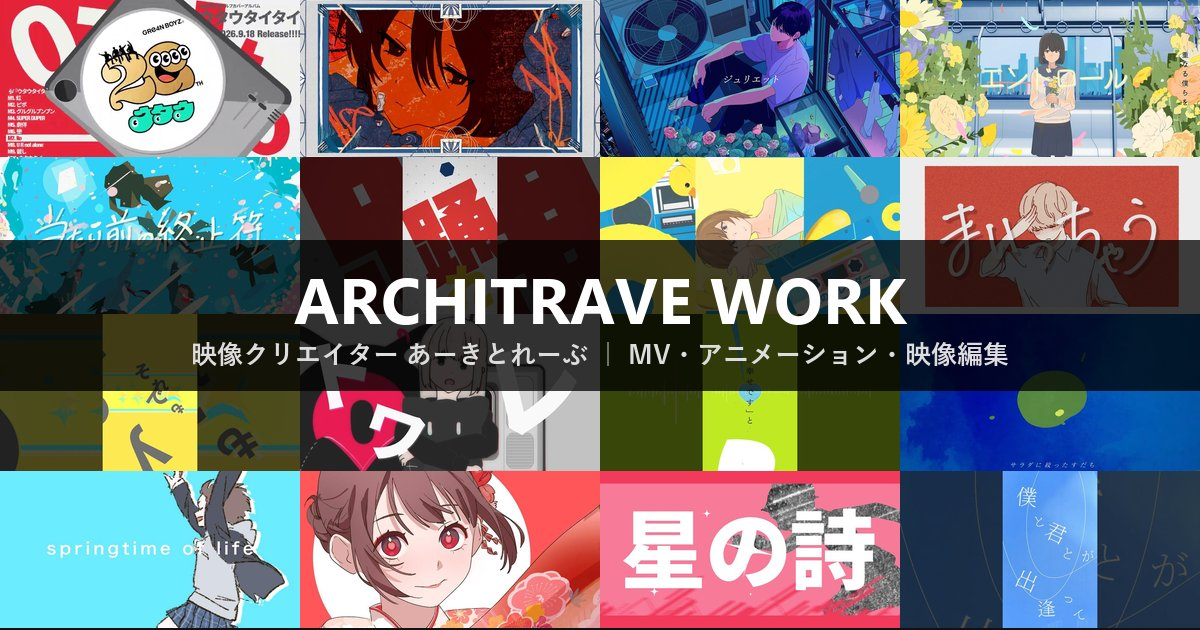
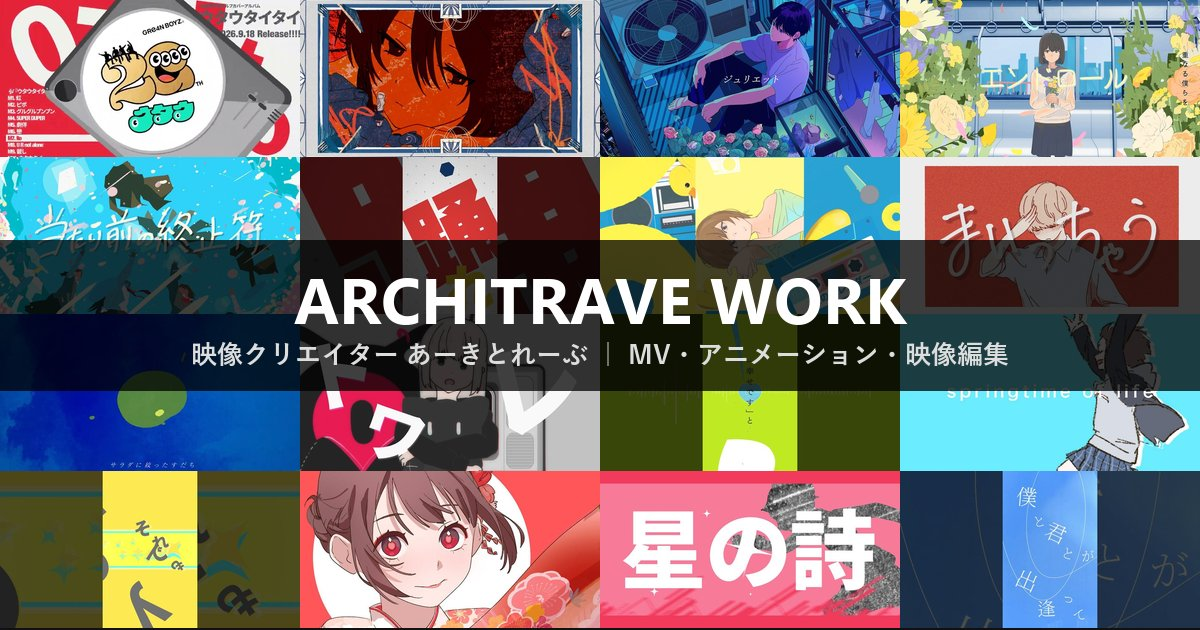
Reorder: すだち back to 9th, U R not alone after FMV３クスッギフト

Changed region(s): [[0.0, 0.4825, 0.2775, 1.0], [0.74, 0.4825, 1.0, 0.754]]

diff --git a/work/Rowmkcclsm0/index.html b/work/Rowmkcclsm0/index.html
@@ -110,7 +110,7 @@
     <h2>概要</h2>
     <p>Streaming &amp; Download：<a href="https://orcd.co/toilette" target="_blank" rel="noopener nofollow">https://orcd.co/toilette</a><br>Uchu Pilot / Toilette<br><br>Produce：宇宙パイロット<br>Vocal：Yoru<br>Music &amp; Lyric：Chinozo<br><br>Illust &amp; Movie：あーきとれーぶ<br>X：<a href="https://x.com/architrave123" target="_blank" rel="noopener nofollow">https://x.com/architrave123</a><br><br>Vocal MIx：さんかくずわり<br>X：<a href="https://x.com/Sankaku_Mix" target="_blank" rel="noopener nofollow">https://x.com/Sankaku_Mix</a><br><br>Inst<br><a href="https://drive.google.com/drive/folder..." target="_blank" rel="noopener nofollow">https://drive.google.com/drive/folder...</a><br><br>=====<br>旅人は言った<br>ここは奇妙（おかし）な星ね<br>檻の中で健気に唄っている<br>刹那の住人　Oh<br><br>小僧の毒もらって鑑賞をす<br>その感想と文化を縫って感動をす<br>結果幼装なDancerは喝采をす<br>あの日の後遺症？<br><br>麻痺って　麻痺ってく<br>痛みどこか飛んでゆく<br>回って　回ってく<br>クラクラ苦楽香るキミへOh<br>腐食してくこの身飾って<br>トワレ！<br><br>旅人は言った<br>ここは奇妙（おかし）な星ね<br>煙たい記憶はどこかしまっている<br>不思議な住人<br><br>小僧の毒もらって鑑賞をす<br>その感想を文化に塗って恋をする<br>えっと、もう帰れないやって万感の部<br>あの日の後遺症<br><br>探ってる　真夜中の天使たちを<br>探ってる　とびきりの辺鄙な希望<br><br>麻痺って　麻痺ってく<br>痛みどこか飛んでゆく<br>詰って（なじって）　踊っている<br>夢にまだ夢見ているんだ<br>魔法で　魔法で<br>ふっと世界を壊したとして<br>麻痺って　麻痺って<br>炎はただ燃えてくだせえ<br><br>腐食してく　今宵くらいね<br>嫌なことは忘れてトワレ！<br><br>旅人は言った<br>ここは奇妙（おかし）な星ね　ふっ<br>=====<br>▼宇宙パイロット<br>YouTube：   / @uchupilot<br>X：<a href="https://x.com/uchupilot" target="_blank" rel="noopener nofollow">https://x.com/uchupilot</a><br>TikTok：  / uchupilot<br>Instagram：  / uchupilot<br><br>▼Chinozo<br>YouTube：   / @chinozo_<br>ニコニコ動画：<a href="https://www.nicovideo.jp/mylist/63011659" target="_blank" rel="noopener nofollow">https://www.nicovideo.jp/mylist/63011659</a><br>X：  / chinozo_<br>TikTok：  / chinozo_<br>Instagram：  / chinozoo0<br>Spotify：<a href="https://open.spotify.com/intl-ja/arti..." target="_blank" rel="noopener nofollow">https://open.spotify.com/intl-ja/arti...</a><br><br>▼Yoru<br>YouTube：   / @younagiyoru<br>X：<a href="https://x.com/yoru_younagi" target="_blank" rel="noopener nofollow">https://x.com/yoru_younagi</a><br>TikTok：  / yoru_younagi<br>Instagram：  / yoru_younagi<br>Spotify：<a href="https://open.spotify.com/intl-ja/arti..." target="_blank" rel="noopener nofollow">https://open.spotify.com/intl-ja/arti...</a><br><br>#宇宙パイロット<br>#Yoru<br>#Chinozo</p>
   </section>
-  <nav class="work-pager"><a href="../ZsBeMrJzw9E/" rel="prev">← GRe4N BOYZ ショート動画「U R n…</a> <a href="../../#work-Rowmkcclsm0">作品一覧</a> <a href="../q23YpekQmYQ/" rel="next">GREEEEN / TO ALL SPORTS… →</a></nav>
+  <nav class="work-pager"><a href="../Zvj9CDngUWY/" rel="prev">← blend house - すだち (Prod…</a> <a href="../../#work-Rowmkcclsm0">作品一覧</a> <a href="../q23YpekQmYQ/" rel="next">GREEEEN / TO ALL SPORTS… →</a></nav>
   <section class="work-related">
     <h2>その他の作品</h2>
     <ul class="work-related-list"><li><a href="../4SJyfo-5izU/"><img src="../../images/08.jpg" alt="監督したアニメがファミマで見れます！" loading="lazy" width="800" height="450"><span>監督したアニメがファミマで見れます！</span></a></li><li><a href="../7lqJ-3v1k1A/"><img src="../../images/09.jpg" alt="GRE4N BOYZ / 「星の詩」LYRIC VIDEO" loading="lazy" width="800" height="450"><span>GRE4N BOYZ / 「星の詩」LYRIC VIDEO</span></a></li><li><a href="../waNKLU4Gyhc/"><img src="../../images/11.jpg" alt="眉村ちあき「THEスーパーグルグルフィジカルジンジャーエール」MV" loading="lazy" width="800" height="450"><span>眉村ちあき「THEスーパーグルグルフィジカルジンジャーエール」MV</span></a></li><li><a href="../pjTdLOlXcsI/"><img src="../../images/12.jpg" alt="「不協和音」szri×ハツミノ×あーきとれーぶ（アトリエプロジェクト）" loading="lazy" width="800" height="450"><span>「不協和音」szri×ハツミノ×あーきとれーぶ（アトリエプロジェクト）</span></a></li><li><a href="../LDPutBJ8Oec/"><img src="../../images/13.jpg" alt="「アメージング・グレイス」RIP DISHONOR（アトリエプロジェクト）" loading="lazy" width="800" height="450"><span>「アメージング・グレイス」RIP DISHONOR（アトリエプロジェクト）</span></a></li><li><a href="../Ha6c2yUMCJw/"><img src="../../images/14.jpg" alt="遊遊 - Lullaby [Music Video Full Ver.]" loading="lazy" width="800" height="450"><span>遊遊 - Lullaby [Music Video Full Ver.]</span></a></li></ul>

diff --git a/work/QJsTcvAufng/index.html b/work/QJsTcvAufng/index.html
@@ -110,7 +110,7 @@
     <h2>概要</h2>
     <p>masa - まいっちゃう<br>DL &amp; Streaming : <a href="https://orcd.co/maicchau" target="_blank" rel="noopener nofollow">https://orcd.co/maicchau</a><br><br>アトリエプロジェクト・オリジナルコラボMV。<br>シンガーソングライターのmasa、イラストレーターの都鳥-totori-、<br>映像クリエイターのあーきとれーぶ、三名によるアトリエオリジナルコラボ作品です！<br><br>「まいっちゃう」<br>VIDEO<br>イラスト・アニメーション：都鳥-totori-<br>動画：あーきとれーぶ<br><br>MUSIC<br>作詞・作曲：masa<br>アレンジ：高村風太<br>REC・MIX：村松知哉<br>ディレクション：花村智志<br>マスタリング：風間萌<br><br>masa<br>TikTok :    / masa12528<br>X :    / msong_28_are<br>Instagram :    / masa12528<br>YouTube：   / @masa-zx7ou<br><br>都鳥-totori-<br>TikTok :    / totori__02<br>X :    / totori__02<br>Instagram :    / totori__02<br>YouTube：   / @totori__02<br><br>あーきとれーぶ<br>TikTok :    / architrave123<br>X :    / architrave123<br>YouTube：   / @architrave123<br><br><br>【アトリエプロジェクト】とは…<br><br>才能が集い、作品を生む。<br><br>アトリエプロジェクトは、TikTokとソニーミュージックがともに立ち上げたプロジェクト。<br><br>さまざまなクリエイティブにチャレンジしている方々がコラボレーションするための<br><br>コミュニティ「アトリエ」を結成し、その活動をサポート。<br><br>音楽やアニメーション、映像制作、イラストなど幅広く集まる才能たちで、<br><br>アトリエメンバーの創作活動を始め、クリエイティブの制作、コラボレーションなど、<br><br>世の中をワクワクさせるモノを生み出すことを目指す。<br><br>アトリエプロジェクト<br>HP：<a href="https://atelierproject.net/" target="_blank" rel="noopener nofollow">https://atelierproject.net/</a><br>TikTok：  / atelierproject<br>X：  / atelierproject_<br><br>#アトリエプロジェクト #masa #都鳥 #あーきとれーぶ</p>
   </section>
-  <nav class="work-pager"><a href="../nVs1prnygiE/" rel="prev">← メタリックセイメイ「夏のカレンダー」Music…</a> <a href="../../#work-QJsTcvAufng">作品一覧</a> <a href="../ZsBeMrJzw9E/" rel="next">GRe4N BOYZ ショート動画「U R n… →</a></nav>
+  <nav class="work-pager"><a href="../nVs1prnygiE/" rel="prev">← メタリックセイメイ「夏のカレンダー」Music…</a> <a href="../../#work-QJsTcvAufng">作品一覧</a> <a href="../Zvj9CDngUWY/" rel="next">blend house - すだち (Prod… →</a></nav>
   <section class="work-related">
     <h2>その他の作品</h2>
     <ul class="work-related-list"><li><a href="../Rowmkcclsm0/"><img src="../../images/05.jpg" alt="宇宙パイロット「トワレ」OFFICIAL MUSIC VIDEO" loading="lazy" width="800" height="450"><span>宇宙パイロット「トワレ」OFFICIAL MUSIC VIDEO</span></a></li><li><a href="../4SJyfo-5izU/"><img src="../../images/08.jpg" alt="監督したアニメがファミマで見れます！" loading="lazy" width="800" height="450"><span>監督したアニメがファミマで見れます！</span></a></li><li><a href="../7lqJ-3v1k1A/"><img src="../../images/09.jpg" alt="GRE4N BOYZ / 「星の詩」LYRIC VIDEO" loading="lazy" width="800" height="450"><span>GRE4N BOYZ / 「星の詩」LYRIC VIDEO</span></a></li><li><a href="../waNKLU4Gyhc/"><img src="../../images/11.jpg" alt="眉村ちあき「THEスーパーグルグルフィジカルジンジャーエール」MV" loading="lazy" width="800" height="450"><span>眉村ちあき「THEスーパーグルグルフィジカルジンジャーエール」MV</span></a></li><li><a href="../pjTdLOlXcsI/"><img src="../../images/12.jpg" alt="「不協和音」szri×ハツミノ×あーきとれーぶ（アトリエプロジェクト）" loading="lazy" width="800" height="450"><span>「不協和音」szri×ハツミノ×あーきとれーぶ（アトリエプロジェクト）</span></a></li><li><a href="../LDPutBJ8Oec/"><img src="../../images/13.jpg" alt="「アメージング・グレイス」RIP DISHONOR（アトリエプロジェクト）" loading="lazy" width="800" height="450"><span>「アメージング・グレイス」RIP DISHONOR（アトリエプロジェクト）</span></a></li></ul>

diff --git a/work/Zvj9CDngUWY/index.html b/work/Zvj9CDngUWY/index.html
@@ -110,10 +110,10 @@
     <h2>概要</h2>
     <p>Music Video for &quot;すだち” by blend house<br><a href="https://bio.to/blendhouse" target="_blank" rel="noopener nofollow">https://bio.to/blendhouse</a><br><br>Music&amp;Lyric：HiROKI / Ryoma Takamura<br>Sound Produce : edbl<br>Recording Engineer : Takeaki Oshima<br>Mastering : 森崎雅人(ARTISANS MASTERING)<br>Animation: architrave / Haruka Shimizu / Emi Morikawa<br>Video Concept &amp; Production: NihyakuWIND<br>Label：P-VINE<br><br>Follow blend house<br>Instagram：   / blendhouse_jp  <br>Official Site：<a href="https://blendhouse-jp.com/" target="_blank" rel="noopener nofollow">https://blendhouse-jp.com/</a><br>Management：<a href="https://bio.to/NihyakuWIND" target="_blank" rel="noopener nofollow">https://bio.to/NihyakuWIND</a></p>
   </section>
-  <nav class="work-pager"><a href="../q23YpekQmYQ/" rel="prev">← GREEEEN / TO ALL SPORTS…</a> <a href="../../#work-Zvj9CDngUWY">作品一覧</a> <a href="../7v4eX-Q8k34/" rel="next">FMV３クスッギフト　3月配信映像　【ディレク… →</a></nav>
+  <nav class="work-pager"><a href="../QJsTcvAufng/" rel="prev">← 「まいっちゃう」MASA×都鳥-TOTORI-…</a> <a href="../../#work-Zvj9CDngUWY">作品一覧</a> <a href="../Rowmkcclsm0/" rel="next">宇宙パイロット「トワレ」OFFICIAL MU… →</a></nav>
   <section class="work-related">
     <h2>その他の作品</h2>
-    <ul class="work-related-list"><li><a href="../XFhPR9i27eQ/"><img src="../../images/02.jpg" alt="ねむ「当たり前の終止符」Music Video" loading="lazy" width="800" height="450"><span>ねむ「当たり前の終止符」Music Video</span></a></li><li><a href="../4SJyfo-5izU/"><img src="../../images/08.jpg" alt="監督したアニメがファミマで見れます！" loading="lazy" width="800" height="450"><span>監督したアニメがファミマで見れます！</span></a></li><li><a href="../7lqJ-3v1k1A/"><img src="../../images/09.jpg" alt="GRE4N BOYZ / 「星の詩」LYRIC VIDEO" loading="lazy" width="800" height="450"><span>GRE4N BOYZ / 「星の詩」LYRIC VIDEO</span></a></li><li><a href="../qFvlFUVgCXY/"><img src="../../images/80.jpg" alt="GRe4N BOYZ ショート動画「Ito」" loading="lazy" width="800" height="450"><span>GRe4N BOYZ ショート動画「Ito」</span></a></li><li><a href="../i9aVfWZ9UJQ/"><img src="../../images/87.jpg" alt="GRe4N BOYZ ショート動画「碧し」" loading="lazy" width="800" height="450"><span>GRe4N BOYZ ショート動画「碧し」</span></a></li><li><a href="../dlWKnTuP4oM/"><img src="../../images/10.jpg" alt="ファントム - 重音テト×mai" loading="lazy" width="800" height="450"><span>ファントム - 重音テト×mai</span></a></li></ul>
+    <ul class="work-related-list"><li><a href="../XFhPR9i27eQ/"><img src="../../images/02.jpg" alt="ねむ「当たり前の終止符」Music Video" loading="lazy" width="800" height="450"><span>ねむ「当たり前の終止符」Music Video</span></a></li><li><a href="../q23YpekQmYQ/"><img src="../../images/06.jpg" alt="GREEEEN / TO ALL SPORTS LOVERS　アルバムショート動画" loading="lazy" width="800" height="450"><span>GREEEEN / TO ALL SPORTS LOVERS　アルバムショート動画</span></a></li><li><a href="../7v4eX-Q8k34/"><img src="../../images/07.jpg" alt="FMV３クスッギフト　3月配信映像　【ディレクション】" loading="lazy" width="800" height="450"><span>FMV３クスッギフト　3月配信映像　【ディレクション】</span></a></li><li><a href="../ZsBeMrJzw9E/"><img src="../../images/81.jpg" alt="GRe4N BOYZ ショート動画「U R not alone」" loading="lazy" width="800" height="450"><span>GRe4N BOYZ ショート動画「U R not alone」</span></a></li><li><a href="../4SJyfo-5izU/"><img src="../../images/08.jpg" alt="監督したアニメがファミマで見れます！" loading="lazy" width="800" height="450"><span>監督したアニメがファミマで見れます！</span></a></li><li><a href="../7lqJ-3v1k1A/"><img src="../../images/09.jpg" alt="GRE4N BOYZ / 「星の詩」LYRIC VIDEO" loading="lazy" width="800" height="450"><span>GRE4N BOYZ / 「星の詩」LYRIC VIDEO</span></a></li></ul>
   </section>
 </main>
 <footer class="site-footer">

diff --git a/work/ZsBeMrJzw9E/index.html b/work/ZsBeMrJzw9E/index.html
@@ -110,10 +110,10 @@
     <h2>概要</h2>
     <p>様々なアーティストなどへ<br>楽曲提供をしてきた曲を<br>GRe4N BOYZ自身が歌唱する<br>9/18（金）配信リリース<br>セルフカバーアルバム『#ウタウタイタイ』🎹<br><br>収録曲の中から<br>NEWSさんへの楽曲提供曲<br>「U R not alone」を少しだけお届け🌏<br><br>配信予約はこちら⬇<br><a href="https://gre4nboyz.lnk.to/UTAU-TAITAI" target="_blank" rel="noopener nofollow">https://gre4nboyz.lnk.to/UTAU-TAITAI</a><br><br>#GRe4NBOYZ</p>
   </section>
-  <nav class="work-pager"><a href="../QJsTcvAufng/" rel="prev">← 「まいっちゃう」MASA×都鳥-TOTORI-…</a> <a href="../../#work-ZsBeMrJzw9E">作品一覧</a> <a href="../Rowmkcclsm0/" rel="next">宇宙パイロット「トワレ」OFFICIAL MU… →</a></nav>
+  <nav class="work-pager"><a href="../7v4eX-Q8k34/" rel="prev">← FMV３クスッギフト　3月配信映像　【ディレク…</a> <a href="../../#work-ZsBeMrJzw9E">作品一覧</a> <a href="../4SJyfo-5izU/" rel="next">監督したアニメがファミマで見れます！ →</a></nav>
   <section class="work-related">
     <h2>その他の作品</h2>
-    <ul class="work-related-list"><li><a href="../q23YpekQmYQ/"><img src="../../images/06.jpg" alt="GREEEEN / TO ALL SPORTS LOVERS　アルバムショート動画" loading="lazy" width="800" height="450"><span>GREEEEN / TO ALL SPORTS LOVERS　アルバムショート動画</span></a></li><li><a href="../7v4eX-Q8k34/"><img src="../../images/07.jpg" alt="FMV３クスッギフト　3月配信映像　【ディレクション】" loading="lazy" width="800" height="450"><span>FMV３クスッギフト　3月配信映像　【ディレクション】</span></a></li><li><a href="../qFvlFUVgCXY/"><img src="../../images/80.jpg" alt="GRe4N BOYZ ショート動画「Ito」" loading="lazy" width="800" height="450"><span>GRe4N BOYZ ショート動画「Ito」</span></a></li><li><a href="../i9aVfWZ9UJQ/"><img src="../../images/87.jpg" alt="GRe4N BOYZ ショート動画「碧し」" loading="lazy" width="800" height="450"><span>GRe4N BOYZ ショート動画「碧し」</span></a></li><li><a href="../dlWKnTuP4oM/"><img src="../../images/10.jpg" alt="ファントム - 重音テト×mai" loading="lazy" width="800" height="450"><span>ファントム - 重音テト×mai</span></a></li><li><a href="../-6M2Trskix0/"><img src="../../images/78.jpg" alt="GRe4N BOYZ ショート動画「グルグルブンブン」" loading="lazy" width="800" height="450"><span>GRe4N BOYZ ショート動画「グルグルブンブン」</span></a></li></ul>
+    <ul class="work-related-list"><li><a href="../qFvlFUVgCXY/"><img src="../../images/80.jpg" alt="GRe4N BOYZ ショート動画「Ito」" loading="lazy" width="800" height="450"><span>GRe4N BOYZ ショート動画「Ito」</span></a></li><li><a href="../i9aVfWZ9UJQ/"><img src="../../images/87.jpg" alt="GRe4N BOYZ ショート動画「碧し」" loading="lazy" width="800" height="450"><span>GRe4N BOYZ ショート動画「碧し」</span></a></li><li><a href="../dlWKnTuP4oM/"><img src="../../images/10.jpg" alt="ファントム - 重音テト×mai" loading="lazy" width="800" height="450"><span>ファントム - 重音テト×mai</span></a></li><li><a href="../-6M2Trskix0/"><img src="../../images/78.jpg" alt="GRe4N BOYZ ショート動画「グルグルブンブン」" loading="lazy" width="800" height="450"><span>GRe4N BOYZ ショート動画「グルグルブンブン」</span></a></li><li><a href="../1taUzHhtEu0/"><img src="../../images/15.jpg" alt="GRe4N BOYZ 4月1日18:00全国ツアー詳細発表＆ファンクラブOPEN" loading="lazy" width="800" height="450"><span>GRe4N BOYZ 4月1日18:00全国ツアー詳細発表＆ファンクラブOPEN</span></a></li><li><a href="../tU-m0vRODQE/"><img src="../../images/16.jpg" alt="ころりんぱ - Synthesizer V AI miki公式デモソング" loading="lazy" width="800" height="450"><span>ころりんぱ - Synthesizer V AI miki公式デモソング</span></a></li></ul>
   </section>
 </main>
 <footer class="site-footer">

diff --git a/work/q23YpekQmYQ/index.html b/work/q23YpekQmYQ/index.html
@@ -110,10 +110,10 @@
     <h2>概要</h2>
     <p>#GReeeeN #キセキ #shorts<br>Movie あーきとれーぶ   / architrave123</p>
   </section>
-  <nav class="work-pager"><a href="../Rowmkcclsm0/" rel="prev">← 宇宙パイロット「トワレ」OFFICIAL MU…</a> <a href="../../#work-q23YpekQmYQ">作品一覧</a> <a href="../Zvj9CDngUWY/" rel="next">blend house - すだち (Prod… →</a></nav>
+  <nav class="work-pager"><a href="../Rowmkcclsm0/" rel="prev">← 宇宙パイロット「トワレ」OFFICIAL MU…</a> <a href="../../#work-q23YpekQmYQ">作品一覧</a> <a href="../7v4eX-Q8k34/" rel="next">FMV３クスッギフト　3月配信映像　【ディレク… →</a></nav>
   <section class="work-related">
     <h2>その他の作品</h2>
-    <ul class="work-related-list"><li><a href="../7v4eX-Q8k34/"><img src="../../images/07.jpg" alt="FMV３クスッギフト　3月配信映像　【ディレクション】" loading="lazy" width="800" height="450"><span>FMV３クスッギフト　3月配信映像　【ディレクション】</span></a></li><li><a href="../qFvlFUVgCXY/"><img src="../../images/80.jpg" alt="GRe4N BOYZ ショート動画「Ito」" loading="lazy" width="800" height="450"><span>GRe4N BOYZ ショート動画「Ito」</span></a></li><li><a href="../i9aVfWZ9UJQ/"><img src="../../images/87.jpg" alt="GRe4N BOYZ ショート動画「碧し」" loading="lazy" width="800" height="450"><span>GRe4N BOYZ ショート動画「碧し」</span></a></li><li><a href="../dlWKnTuP4oM/"><img src="../../images/10.jpg" alt="ファントム - 重音テト×mai" loading="lazy" width="800" height="450"><span>ファントム - 重音テト×mai</span></a></li><li><a href="../-6M2Trskix0/"><img src="../../images/78.jpg" alt="GRe4N BOYZ ショート動画「グルグルブンブン」" loading="lazy" width="800" height="450"><span>GRe4N BOYZ ショート動画「グルグルブンブン」</span></a></li><li><a href="../1taUzHhtEu0/"><img src="../../images/15.jpg" alt="GRe4N BOYZ 4月1日18:00全国ツアー詳細発表＆ファンクラブOPEN" loading="lazy" width="800" height="450"><span>GRe4N BOYZ 4月1日18:00全国ツアー詳細発表＆ファンクラブOPEN</span></a></li></ul>
+    <ul class="work-related-list"><li><a href="../ZsBeMrJzw9E/"><img src="../../images/81.jpg" alt="GRe4N BOYZ ショート動画「U R not alone」" loading="lazy" width="800" height="450"><span>GRe4N BOYZ ショート動画「U R not alone」</span></a></li><li><a href="../qFvlFUVgCXY/"><img src="../../images/80.jpg" alt="GRe4N BOYZ ショート動画「Ito」" loading="lazy" width="800" height="450"><span>GRe4N BOYZ ショート動画「Ito」</span></a></li><li><a href="../i9aVfWZ9UJQ/"><img src="../../images/87.jpg" alt="GRe4N BOYZ ショート動画「碧し」" loading="lazy" width="800" height="450"><span>GRe4N BOYZ ショート動画「碧し」</span></a></li><li><a href="../dlWKnTuP4oM/"><img src="../../images/10.jpg" alt="ファントム - 重音テト×mai" loading="lazy" width="800" height="450"><span>ファントム - 重音テト×mai</span></a></li><li><a href="../-6M2Trskix0/"><img src="../../images/78.jpg" alt="GRe4N BOYZ ショート動画「グルグルブンブン」" loading="lazy" width="800" height="450"><span>GRe4N BOYZ ショート動画「グルグルブンブン」</span></a></li><li><a href="../1taUzHhtEu0/"><img src="../../images/15.jpg" alt="GRe4N BOYZ 4月1日18:00全国ツアー詳細発表＆ファンクラブOPEN" loading="lazy" width="800" height="450"><span>GRe4N BOYZ 4月1日18:00全国ツアー詳細発表＆ファンクラブOPEN</span></a></li></ul>
   </section>
 </main>
 <footer class="site-footer">

diff --git a/work/XFhPR9i27eQ/index.html b/work/XFhPR9i27eQ/index.html
@@ -113,7 +113,7 @@
   <nav class="work-pager"><a href="../fepw6wKU8D8/" rel="prev">← エンドロール - クワガタP feat. 重音…</a> <a href="../../#work-XFhPR9i27eQ">作品一覧</a> <a href="../SVLvcvREXCQ/" rel="next">GRe4N BOYZ ショート動画「ピポ」 →</a></nav>
   <section class="work-related">
     <h2>その他の作品</h2>
-    <ul class="work-related-list"><li><a href="../Zvj9CDngUWY/"><img src="../../images/90.jpg" alt="blend house - すだち (Prod. edbl) [Animated Music Video]" loading="lazy" width="800" height="450"><span>blend house - すだち (Prod. edbl) [Animated Music Video]</span></a></li><li><a href="../nVs1prnygiE/"><img src="../../images/03.jpg" alt="メタリックセイメイ「夏のカレンダー」Music Video" loading="lazy" width="800" height="450"><span>メタリックセイメイ「夏のカレンダー」Music Video</span></a></li><li><a href="../QJsTcvAufng/"><img src="../../images/04.jpg" alt="「まいっちゃう」MASA×都鳥-TOTORI-×あーきとれーぶ(アトリエプロジェクト)" loading="lazy" width="800" height="450"><span>「まいっちゃう」MASA×都鳥-TOTORI-×あーきとれーぶ(アトリエプロジェクト)</span></a></li><li><a href="../ZsBeMrJzw9E/"><img src="../../images/81.jpg" alt="GRe4N BOYZ ショート動画「U R not alone」" loading="lazy" width="800" height="450"><span>GRe4N BOYZ ショート動画「U R not alone」</span></a></li><li><a href="../Rowmkcclsm0/"><img src="../../images/05.jpg" alt="宇宙パイロット「トワレ」OFFICIAL MUSIC VIDEO" loading="lazy" width="800" height="450"><span>宇宙パイロット「トワレ」OFFICIAL MUSIC VIDEO</span></a></li><li><a href="../q23YpekQmYQ/"><img src="../../images/06.jpg" alt="GREEEEN / TO ALL SPORTS LOVERS　アルバムショート動画" loading="lazy" width="800" height="450"><span>GREEEEN / TO ALL SPORTS LOVERS　アルバムショート動画</span></a></li></ul>
+    <ul class="work-related-list"><li><a href="../Zvj9CDngUWY/"><img src="../../images/90.jpg" alt="blend house - すだち (Prod. edbl) [Animated Music Video]" loading="lazy" width="800" height="450"><span>blend house - すだち (Prod. edbl) [Animated Music Video]</span></a></li><li><a href="../nVs1prnygiE/"><img src="../../images/03.jpg" alt="メタリックセイメイ「夏のカレンダー」Music Video" loading="lazy" width="800" height="450"><span>メタリックセイメイ「夏のカレンダー」Music Video</span></a></li><li><a href="../QJsTcvAufng/"><img src="../../images/04.jpg" alt="「まいっちゃう」MASA×都鳥-TOTORI-×あーきとれーぶ(アトリエプロジェクト)" loading="lazy" width="800" height="450"><span>「まいっちゃう」MASA×都鳥-TOTORI-×あーきとれーぶ(アトリエプロジェクト)</span></a></li><li><a href="../Rowmkcclsm0/"><img src="../../images/05.jpg" alt="宇宙パイロット「トワレ」OFFICIAL MUSIC VIDEO" loading="lazy" width="800" height="450"><span>宇宙パイロット「トワレ」OFFICIAL MUSIC VIDEO</span></a></li><li><a href="../q23YpekQmYQ/"><img src="../../images/06.jpg" alt="GREEEEN / TO ALL SPORTS LOVERS　アルバムショート動画" loading="lazy" width="800" height="450"><span>GREEEEN / TO ALL SPORTS LOVERS　アルバムショート動画</span></a></li><li><a href="../7v4eX-Q8k34/"><img src="../../images/07.jpg" alt="FMV３クスッギフト　3月配信映像　【ディレクション】" loading="lazy" width="800" height="450"><span>FMV３クスッギフト　3月配信映像　【ディレクション】</span></a></li></ul>
   </section>
 </main>
 <footer class="site-footer">

diff --git a/data.js b/data.js
@@ -518,26 +518,27 @@ X：  / atelierproject_
 #アトリエプロジェクト #masa #都鳥 #あーきとれーぶ`
   },
   {
-    title: "GRe4N BOYZ ショート動画「U R not alone」",
+    title: "blend house - すだち (Prod. edbl) [Animated Music Video]",
     year: 2026,
-    youtubeId: "ZsBeMrJzw9E",
-    thumbnail: "images/81.jpg",
-    credit: "Movie: あーきとれーぶ",
-    roles: ["editing"],
-    description: `様々なアーティストなどへ
-楽曲提供をしてきた曲を
-GRe4N BOYZ自身が歌唱する
-9/18（金）配信リリース
-セルフカバーアルバム『#ウタウタイタイ』🎹
+    youtubeId: "Zvj9CDngUWY",
+    thumbnail: "images/90.jpg",
+    credit: "Animation, Background & Editing: あーきとれーぶ / Animation: Haruka Shimizu, Emi Morikawa",
+    roles: ["animation", "editing"],
+    description: `Music Video for "すだち” by blend house
+https://bio.to/blendhouse
 
-収録曲の中から
-NEWSさんへの楽曲提供曲
-「U R not alone」を少しだけお届け🌏
+Music&Lyric：HiROKI / Ryoma Takamura
+Sound Produce : edbl
+Recording Engineer : Takeaki Oshima
+Mastering : 森崎雅人(ARTISANS MASTERING)
+Animation: architrave / Haruka Shimizu / Emi Morikawa
+Video Concept & Production: NihyakuWIND
+Label：P-VINE
 
-配信予約はこちら⬇
-https://gre4nboyz.lnk.to/UTAU-TAITAI
-
-#GRe4NBOYZ`
+Follow blend house
+Instagram：   / blendhouse_jp  
+Official Site：https://blendhouse-jp.com/
+Management：https://bio.to/NihyakuWIND`
   },
   {
     title: "宇宙パイロット「トワレ」OFFICIAL MUSIC VIDEO",
@@ -644,29 +645,6 @@ Spotify：https://open.spotify.com/intl-ja/arti...
 Movie あーきとれーぶ   / architrave123`
   },
   {
-    title: "blend house - すだち (Prod. edbl) [Animated Music Video]",
-    year: 2026,
-    youtubeId: "Zvj9CDngUWY",
-    thumbnail: "images/90.jpg",
-    credit: "Animation, Background & Editing: あーきとれーぶ / Animation: Haruka Shimizu, Emi Morikawa",
-    roles: ["animation", "editing"],
-    description: `Music Video for "すだち” by blend house
-https://bio.to/blendhouse
-
-Music&Lyric：HiROKI / Ryoma Takamura
-Sound Produce : edbl
-Recording Engineer : Takeaki Oshima
-Mastering : 森崎雅人(ARTISANS MASTERING)
-Animation: architrave / Haruka Shimizu / Emi Morikawa
-Video Concept & Production: NihyakuWIND
-Label：P-VINE
-
-Follow blend house
-Instagram：   / blendhouse_jp  
-Official Site：https://blendhouse-jp.com/
-Management：https://bio.to/NihyakuWIND`
-  },
-  {
     title: "FMV３クスッギフト　3月配信映像　【ディレクション】",
     year: 2025,
     youtubeId: "7v4eX-Q8k34",
@@ -689,6 +667,28 @@ TikTok　https://www.tiktok.com/@cacaotane?_t=...
 ＃FamilyMartVison
 ＃ファミリーマート
 ＃アトリエプロジェクト　#animation`
+  },
+  {
+    title: "GRe4N BOYZ ショート動画「U R not alone」",
+    year: 2026,
+    youtubeId: "ZsBeMrJzw9E",
+    thumbnail: "images/81.jpg",
+    credit: "Movie: あーきとれーぶ",
+    roles: ["editing"],
+    description: `様々なアーティストなどへ
+楽曲提供をしてきた曲を
+GRe4N BOYZ自身が歌唱する
+9/18（金）配信リリース
+セルフカバーアルバム『#ウタウタイタイ』🎹
+
+収録曲の中から
+NEWSさんへの楽曲提供曲
+「U R not alone」を少しだけお届け🌏
+
+配信予約はこちら⬇
+https://gre4nboyz.lnk.to/UTAU-TAITAI
+
+#GRe4NBOYZ`
   },
   {
     title: "監督したアニメがファミマで見れます！",

diff --git a/work/YwXOhJMCSNY/index.html b/work/YwXOhJMCSNY/index.html
@@ -113,7 +113,7 @@
   <nav class="work-pager"><a href="../e77L95ziaz4/" rel="prev">← あいたいあの子に、あわせてあげる。 (COVE…</a> <a href="../../#work-YwXOhJMCSNY">作品一覧</a> <a href="../mYgI52TmgYE/" rel="next">教科書の捨て方(How to be an ad… →</a></nav>
   <section class="work-related">
     <h2>その他の作品</h2>
-    <ul class="work-related-list"><li><a href="../hViR5-biXyE/"><img src="../../images/57.jpg" alt="ヤマモトガク　1st album「怪談」　アルバムクロスフェード" loading="lazy" width="800" height="450"><span>ヤマモトガク　1st album「怪談」　アルバムクロスフェード</span></a></li><li><a href="../Z-R-cDwceGc/"><img src="../../images/89.jpg" alt="GRe4N BOYZ「ウタウタイタイ」Album Sampler" loading="lazy" width="800" height="450"><span>GRe4N BOYZ「ウタウタイタイ」Album Sampler</span></a></li><li><a href="../vo3qug1HFXs/"><img src="../../images/79.jpg" alt="kiyu「ジュリエット」Official Music Video" loading="lazy" width="800" height="450"><span>kiyu「ジュリエット」Official Music Video</span></a></li><li><a href="../SVLvcvREXCQ/"><img src="../../images/77.jpg" alt="GRe4N BOYZ ショート動画「ピポ」" loading="lazy" width="800" height="450"><span>GRe4N BOYZ ショート動画「ピポ」</span></a></li><li><a href="../ZsBeMrJzw9E/"><img src="../../images/81.jpg" alt="GRe4N BOYZ ショート動画「U R not alone」" loading="lazy" width="800" height="450"><span>GRe4N BOYZ ショート動画「U R not alone」</span></a></li><li><a href="../q23YpekQmYQ/"><img src="../../images/06.jpg" alt="GREEEEN / TO ALL SPORTS LOVERS　アルバムショート動画" loading="lazy" width="800" height="450"><span>GREEEEN / TO ALL SPORTS LOVERS　アルバムショート動画</span></a></li></ul>
+    <ul class="work-related-list"><li><a href="../hViR5-biXyE/"><img src="../../images/57.jpg" alt="ヤマモトガク　1st album「怪談」　アルバムクロスフェード" loading="lazy" width="800" height="450"><span>ヤマモトガク　1st album「怪談」　アルバムクロスフェード</span></a></li><li><a href="../Z-R-cDwceGc/"><img src="../../images/89.jpg" alt="GRe4N BOYZ「ウタウタイタイ」Album Sampler" loading="lazy" width="800" height="450"><span>GRe4N BOYZ「ウタウタイタイ」Album Sampler</span></a></li><li><a href="../vo3qug1HFXs/"><img src="../../images/79.jpg" alt="kiyu「ジュリエット」Official Music Video" loading="lazy" width="800" height="450"><span>kiyu「ジュリエット」Official Music Video</span></a></li><li><a href="../SVLvcvREXCQ/"><img src="../../images/77.jpg" alt="GRe4N BOYZ ショート動画「ピポ」" loading="lazy" width="800" height="450"><span>GRe4N BOYZ ショート動画「ピポ」</span></a></li><li><a href="../q23YpekQmYQ/"><img src="../../images/06.jpg" alt="GREEEEN / TO ALL SPORTS LOVERS　アルバムショート動画" loading="lazy" width="800" height="450"><span>GREEEEN / TO ALL SPORTS LOVERS　アルバムショート動画</span></a></li><li><a href="../7v4eX-Q8k34/"><img src="../../images/07.jpg" alt="FMV３クスッギフト　3月配信映像　【ディレクション】" loading="lazy" width="800" height="450"><span>FMV３クスッギフト　3月配信映像　【ディレクション】</span></a></li></ul>
   </section>
 </main>
 <footer class="site-footer">

diff --git a/work/e77L95ziaz4/index.html b/work/e77L95ziaz4/index.html
@@ -113,7 +113,7 @@
   <nav class="work-pager"><a href="../LnDRUiWmFXk/" rel="prev">← MONSTRO / 鏡音リン</a> <a href="../../#work-e77L95ziaz4">作品一覧</a> <a href="../YwXOhJMCSNY/" rel="next">きゅうくらりん (COVER) / 小谷あすか →</a></nav>
   <section class="work-related">
     <h2>その他の作品</h2>
-    <ul class="work-related-list"><li><a href="../hViR5-biXyE/"><img src="../../images/57.jpg" alt="ヤマモトガク　1st album「怪談」　アルバムクロスフェード" loading="lazy" width="800" height="450"><span>ヤマモトガク　1st album「怪談」　アルバムクロスフェード</span></a></li><li><a href="../Z-R-cDwceGc/"><img src="../../images/89.jpg" alt="GRe4N BOYZ「ウタウタイタイ」Album Sampler" loading="lazy" width="800" height="450"><span>GRe4N BOYZ「ウタウタイタイ」Album Sampler</span></a></li><li><a href="../vo3qug1HFXs/"><img src="../../images/79.jpg" alt="kiyu「ジュリエット」Official Music Video" loading="lazy" width="800" height="450"><span>kiyu「ジュリエット」Official Music Video</span></a></li><li><a href="../SVLvcvREXCQ/"><img src="../../images/77.jpg" alt="GRe4N BOYZ ショート動画「ピポ」" loading="lazy" width="800" height="450"><span>GRe4N BOYZ ショート動画「ピポ」</span></a></li><li><a href="../ZsBeMrJzw9E/"><img src="../../images/81.jpg" alt="GRe4N BOYZ ショート動画「U R not alone」" loading="lazy" width="800" height="450"><span>GRe4N BOYZ ショート動画「U R not alone」</span></a></li><li><a href="../q23YpekQmYQ/"><img src="../../images/06.jpg" alt="GREEEEN / TO ALL SPORTS LOVERS　アルバムショート動画" loading="lazy" width="800" height="450"><span>GREEEEN / TO ALL SPORTS LOVERS　アルバムショート動画</span></a></li></ul>
+    <ul class="work-related-list"><li><a href="../hViR5-biXyE/"><img src="../../images/57.jpg" alt="ヤマモトガク　1st album「怪談」　アルバムクロスフェード" loading="lazy" width="800" height="450"><span>ヤマモトガク　1st album「怪談」　アルバムクロスフェード</span></a></li><li><a href="../Z-R-cDwceGc/"><img src="../../images/89.jpg" alt="GRe4N BOYZ「ウタウタイタイ」Album Sampler" loading="lazy" width="800" height="450"><span>GRe4N BOYZ「ウタウタイタイ」Album Sampler</span></a></li><li><a href="../vo3qug1HFXs/"><img src="../../images/79.jpg" alt="kiyu「ジュリエット」Official Music Video" loading="lazy" width="800" height="450"><span>kiyu「ジュリエット」Official Music Video</span></a></li><li><a href="../SVLvcvREXCQ/"><img src="../../images/77.jpg" alt="GRe4N BOYZ ショート動画「ピポ」" loading="lazy" width="800" height="450"><span>GRe4N BOYZ ショート動画「ピポ」</span></a></li><li><a href="../q23YpekQmYQ/"><img src="../../images/06.jpg" alt="GREEEEN / TO ALL SPORTS LOVERS　アルバムショート動画" loading="lazy" width="800" height="450"><span>GREEEEN / TO ALL SPORTS LOVERS　アルバムショート動画</span></a></li><li><a href="../7v4eX-Q8k34/"><img src="../../images/07.jpg" alt="FMV３クスッギフト　3月配信映像　【ディレクション】" loading="lazy" width="800" height="450"><span>FMV３クスッギフト　3月配信映像　【ディレクション】</span></a></li></ul>
   </section>
 </main>
 <footer class="site-footer">

diff --git a/work/hViR5-biXyE/index.html b/work/hViR5-biXyE/index.html
@@ -113,7 +113,7 @@
   <nav class="work-pager"><a href="../mYgI52TmgYE/" rel="prev">← 教科書の捨て方(How to be an ad…</a> <a href="../../#work-hViR5-biXyE">作品一覧</a> <a href="../P_anMdcCKC8/" rel="next">seeeeecun feat. suisa, … →</a></nav>
   <section class="work-related">
     <h2>その他の作品</h2>
-    <ul class="work-related-list"><li><a href="../Z-R-cDwceGc/"><img src="../../images/89.jpg" alt="GRe4N BOYZ「ウタウタイタイ」Album Sampler" loading="lazy" width="800" height="450"><span>GRe4N BOYZ「ウタウタイタイ」Album Sampler</span></a></li><li><a href="../vo3qug1HFXs/"><img src="../../images/79.jpg" alt="kiyu「ジュリエット」Official Music Video" loading="lazy" width="800" height="450"><span>kiyu「ジュリエット」Official Music Video</span></a></li><li><a href="../SVLvcvREXCQ/"><img src="../../images/77.jpg" alt="GRe4N BOYZ ショート動画「ピポ」" loading="lazy" width="800" height="450"><span>GRe4N BOYZ ショート動画「ピポ」</span></a></li><li><a href="../ZsBeMrJzw9E/"><img src="../../images/81.jpg" alt="GRe4N BOYZ ショート動画「U R not alone」" loading="lazy" width="800" height="450"><span>GRe4N BOYZ ショート動画「U R not alone」</span></a></li><li><a href="../q23YpekQmYQ/"><img src="../../images/06.jpg" alt="GREEEEN / TO ALL SPORTS LOVERS　アルバムショート動画" loading="lazy" width="800" height="450"><span>GREEEEN / TO ALL SPORTS LOVERS　アルバムショート動画</span></a></li><li><a href="../7v4eX-Q8k34/"><img src="../../images/07.jpg" alt="FMV３クスッギフト　3月配信映像　【ディレクション】" loading="lazy" width="800" height="450"><span>FMV３クスッギフト　3月配信映像　【ディレクション】</span></a></li></ul>
+    <ul class="work-related-list"><li><a href="../Z-R-cDwceGc/"><img src="../../images/89.jpg" alt="GRe4N BOYZ「ウタウタイタイ」Album Sampler" loading="lazy" width="800" height="450"><span>GRe4N BOYZ「ウタウタイタイ」Album Sampler</span></a></li><li><a href="../vo3qug1HFXs/"><img src="../../images/79.jpg" alt="kiyu「ジュリエット」Official Music Video" loading="lazy" width="800" height="450"><span>kiyu「ジュリエット」Official Music Video</span></a></li><li><a href="../SVLvcvREXCQ/"><img src="../../images/77.jpg" alt="GRe4N BOYZ ショート動画「ピポ」" loading="lazy" width="800" height="450"><span>GRe4N BOYZ ショート動画「ピポ」</span></a></li><li><a href="../q23YpekQmYQ/"><img src="../../images/06.jpg" alt="GREEEEN / TO ALL SPORTS LOVERS　アルバムショート動画" loading="lazy" width="800" height="450"><span>GREEEEN / TO ALL SPORTS LOVERS　アルバムショート動画</span></a></li><li><a href="../7v4eX-Q8k34/"><img src="../../images/07.jpg" alt="FMV３クスッギフト　3月配信映像　【ディレクション】" loading="lazy" width="800" height="450"><span>FMV３クスッギフト　3月配信映像　【ディレクション】</span></a></li><li><a href="../ZsBeMrJzw9E/"><img src="../../images/81.jpg" alt="GRe4N BOYZ ショート動画「U R not alone」" loading="lazy" width="800" height="450"><span>GRe4N BOYZ ショート動画「U R not alone」</span></a></li></ul>
   </section>
 </main>
 <footer class="site-footer">

diff --git a/work/Z-R-cDwceGc/index.html b/work/Z-R-cDwceGc/index.html
@@ -113,7 +113,7 @@
   <nav class="work-pager"><a href="../3DYJTLj8yPs/" rel="prev">← イタチゴッコ / IA</a> <a href="../../#work-Z-R-cDwceGc">作品一覧</a> <a href="../mZpzs8-xoxM/" rel="next">ヤマモトガク「天国の作り方」MV →</a></nav>
   <section class="work-related">
     <h2>その他の作品</h2>
-    <ul class="work-related-list"><li><a href="../vo3qug1HFXs/"><img src="../../images/79.jpg" alt="kiyu「ジュリエット」Official Music Video" loading="lazy" width="800" height="450"><span>kiyu「ジュリエット」Official Music Video</span></a></li><li><a href="../SVLvcvREXCQ/"><img src="../../images/77.jpg" alt="GRe4N BOYZ ショート動画「ピポ」" loading="lazy" width="800" height="450"><span>GRe4N BOYZ ショート動画「ピポ」</span></a></li><li><a href="../ZsBeMrJzw9E/"><img src="../../images/81.jpg" alt="GRe4N BOYZ ショート動画「U R not alone」" loading="lazy" width="800" height="450"><span>GRe4N BOYZ ショート動画「U R not alone」</span></a></li><li><a href="../q23YpekQmYQ/"><img src="../../images/06.jpg" alt="GREEEEN / TO ALL SPORTS LOVERS　アルバムショート動画" loading="lazy" width="800" height="450"><span>GREEEEN / TO ALL SPORTS LOVERS　アルバムショート動画</span></a></li><li><a href="../7v4eX-Q8k34/"><img src="../../images/07.jpg" alt="FMV３クスッギフト　3月配信映像　【ディレクション】" loading="lazy" width="800" height="450"><span>FMV３クスッギフト　3月配信映像　【ディレクション】</span></a></li><li><a href="../qFvlFUVgCXY/"><img src="../../images/80.jpg" alt="GRe4N BOYZ ショート動画「Ito」" loading="lazy" width="800" height="450"><span>GRe4N BOYZ ショート動画「Ito」</span></a></li></ul>
+    <ul class="work-related-list"><li><a href="../vo3qug1HFXs/"><img src="../../images/79.jpg" alt="kiyu「ジュリエット」Official Music Video" loading="lazy" width="800" height="450"><span>kiyu「ジュリエット」Official Music Video</span></a></li><li><a href="../SVLvcvREXCQ/"><img src="../../images/77.jpg" alt="GRe4N BOYZ ショート動画「ピポ」" loading="lazy" width="800" height="450"><span>GRe4N BOYZ ショート動画「ピポ」</span></a></li><li><a href="../q23YpekQmYQ/"><img src="../../images/06.jpg" alt="GREEEEN / TO ALL SPORTS LOVERS　アルバムショート動画" loading="lazy" width="800" height="450"><span>GREEEEN / TO ALL SPORTS LOVERS　アルバムショート動画</span></a></li><li><a href="../7v4eX-Q8k34/"><img src="../../images/07.jpg" alt="FMV３クスッギフト　3月配信映像　【ディレクション】" loading="lazy" width="800" height="450"><span>FMV３クスッギフト　3月配信映像　【ディレクション】</span></a></li><li><a href="../ZsBeMrJzw9E/"><img src="../../images/81.jpg" alt="GRe4N BOYZ ショート動画「U R not alone」" loading="lazy" width="800" height="450"><span>GRe4N BOYZ ショート動画「U R not alone」</span></a></li><li><a href="../qFvlFUVgCXY/"><img src="../../images/80.jpg" alt="GRe4N BOYZ ショート動画「Ito」" loading="lazy" width="800" height="450"><span>GRe4N BOYZ ショート動画「Ito」</span></a></li></ul>
   </section>
 </main>
 <footer class="site-footer">

diff --git a/work/vo3qug1HFXs/index.html b/work/vo3qug1HFXs/index.html
@@ -113,7 +113,7 @@
   <nav class="work-pager"><a href="../mZpzs8-xoxM/" rel="prev">← ヤマモトガク「天国の作り方」MV</a> <a href="../../#work-vo3qug1HFXs">作品一覧</a> <a href="../fepw6wKU8D8/" rel="next">エンドロール - クワガタP feat. 重音… →</a></nav>
   <section class="work-related">
     <h2>その他の作品</h2>
-    <ul class="work-related-list"><li><a href="../SVLvcvREXCQ/"><img src="../../images/77.jpg" alt="GRe4N BOYZ ショート動画「ピポ」" loading="lazy" width="800" height="450"><span>GRe4N BOYZ ショート動画「ピポ」</span></a></li><li><a href="../ZsBeMrJzw9E/"><img src="../../images/81.jpg" alt="GRe4N BOYZ ショート動画「U R not alone」" loading="lazy" width="800" height="450"><span>GRe4N BOYZ ショート動画「U R not alone」</span></a></li><li><a href="../q23YpekQmYQ/"><img src="../../images/06.jpg" alt="GREEEEN / TO ALL SPORTS LOVERS　アルバムショート動画" loading="lazy" width="800" height="450"><span>GREEEEN / TO ALL SPORTS LOVERS　アルバムショート動画</span></a></li><li><a href="../7v4eX-Q8k34/"><img src="../../images/07.jpg" alt="FMV３クスッギフト　3月配信映像　【ディレクション】" loading="lazy" width="800" height="450"><span>FMV３クスッギフト　3月配信映像　【ディレクション】</span></a></li><li><a href="../qFvlFUVgCXY/"><img src="../../images/80.jpg" alt="GRe4N BOYZ ショート動画「Ito」" loading="lazy" width="800" height="450"><span>GRe4N BOYZ ショート動画「Ito」</span></a></li><li><a href="../i9aVfWZ9UJQ/"><img src="../../images/87.jpg" alt="GRe4N BOYZ ショート動画「碧し」" loading="lazy" width="800" height="450"><span>GRe4N BOYZ ショート動画「碧し」</span></a></li></ul>
+    <ul class="work-related-list"><li><a href="../SVLvcvREXCQ/"><img src="../../images/77.jpg" alt="GRe4N BOYZ ショート動画「ピポ」" loading="lazy" width="800" height="450"><span>GRe4N BOYZ ショート動画「ピポ」</span></a></li><li><a href="../q23YpekQmYQ/"><img src="../../images/06.jpg" alt="GREEEEN / TO ALL SPORTS LOVERS　アルバムショート動画" loading="lazy" width="800" height="450"><span>GREEEEN / TO ALL SPORTS LOVERS　アルバムショート動画</span></a></li><li><a href="../7v4eX-Q8k34/"><img src="../../images/07.jpg" alt="FMV３クスッギフト　3月配信映像　【ディレクション】" loading="lazy" width="800" height="450"><span>FMV３クスッギフト　3月配信映像　【ディレクション】</span></a></li><li><a href="../ZsBeMrJzw9E/"><img src="../../images/81.jpg" alt="GRe4N BOYZ ショート動画「U R not alone」" loading="lazy" width="800" height="450"><span>GRe4N BOYZ ショート動画「U R not alone」</span></a></li><li><a href="../qFvlFUVgCXY/"><img src="../../images/80.jpg" alt="GRe4N BOYZ ショート動画「Ito」" loading="lazy" width="800" height="450"><span>GRe4N BOYZ ショート動画「Ito」</span></a></li><li><a href="../i9aVfWZ9UJQ/"><img src="../../images/87.jpg" alt="GRe4N BOYZ ショート動画「碧し」" loading="lazy" width="800" height="450"><span>GRe4N BOYZ ショート動画「碧し」</span></a></li></ul>
   </section>
 </main>
 <footer class="site-footer">
